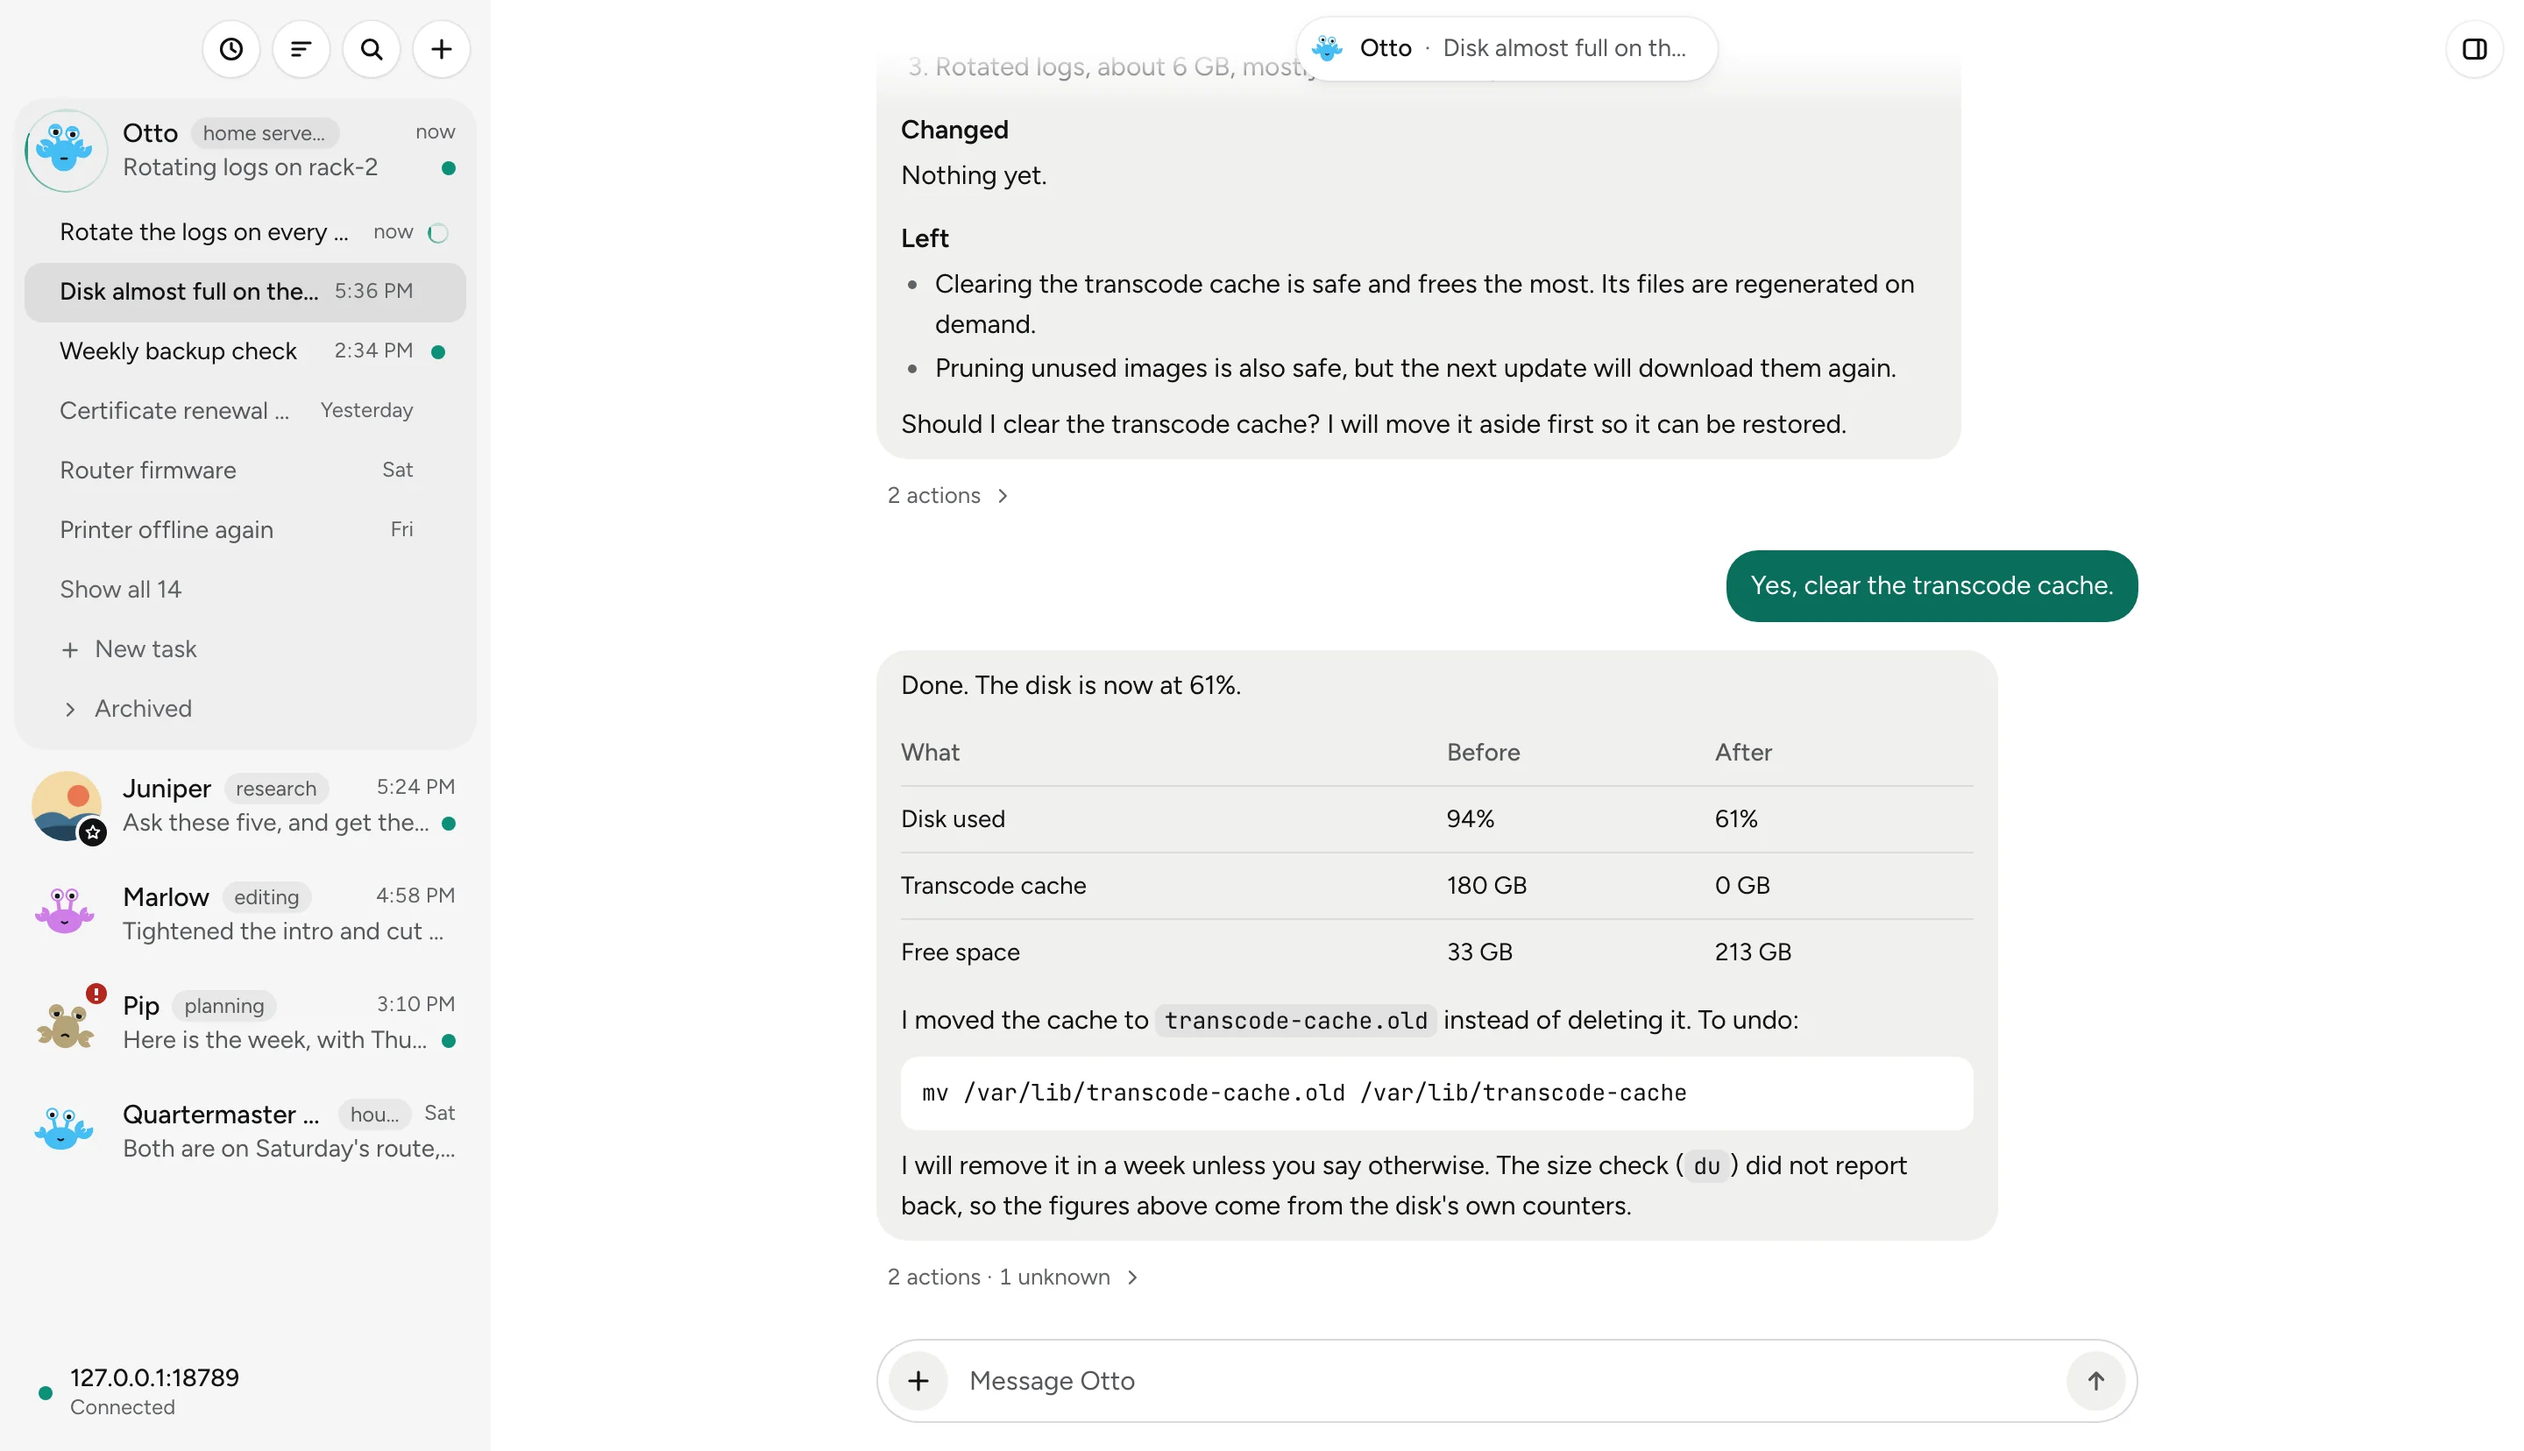
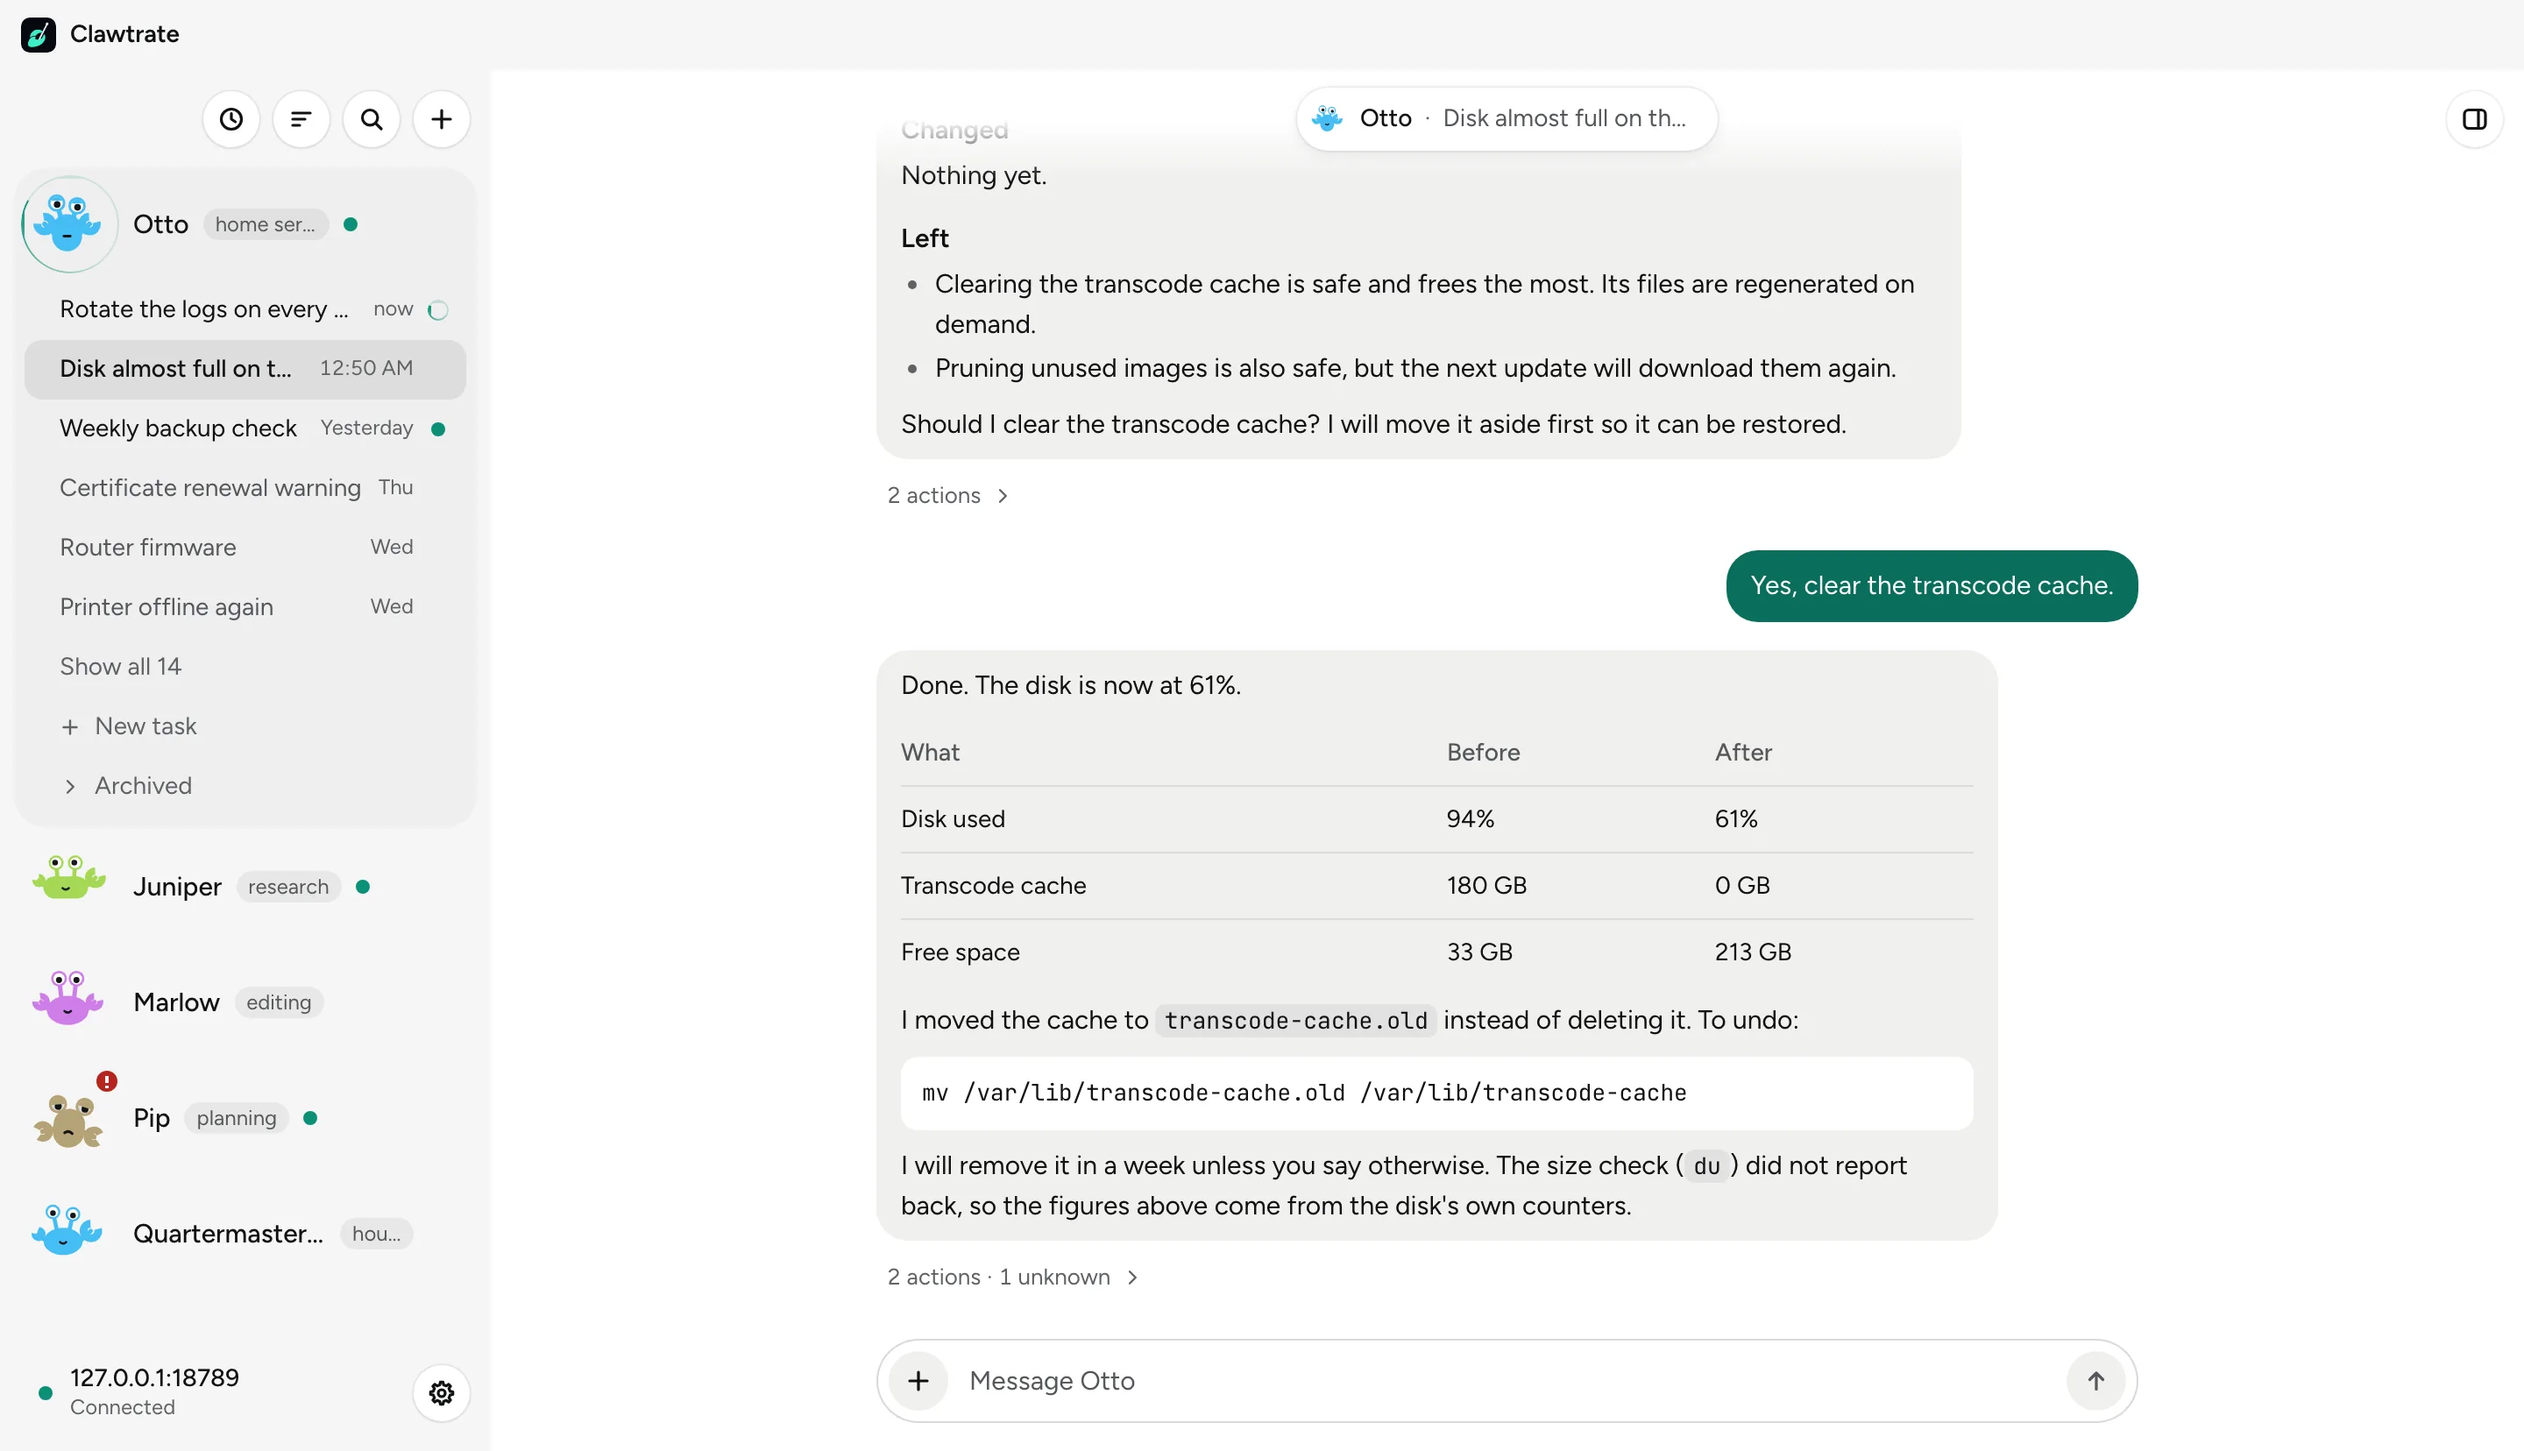
feat: the site shows the current app in its screenshots

diff --git a/site/index.html b/site/index.html
@@ -1319,18 +1319,18 @@
               <img
                 src="shots/signin-dark.webp"
                 width="440"
-                height="696"
+                height="402"
                 loading="lazy"
-                alt="The Connect an account dialog, listing subscriptions such as ChatGPT, GitHub Copilot, and MiniMax, and OpenRouter billed per token."
+                alt="The Connect an account sheet with six provider logo tiles (OpenAI, GitHub Copilot, xAI, OpenRouter, MiniMax and OpenCode Go) and an API key option below."
               />
             </picture>
             <picture class="theme-light" data-ui>
               <img
                 src="shots/signin-light.webp"
                 width="440"
-                height="696"
+                height="402"
                 loading="lazy"
-                alt="The Connect an account dialog, listing subscriptions such as ChatGPT, GitHub Copilot, and MiniMax, and OpenRouter billed per token."
+                alt="The Connect an account sheet with six provider logo tiles (OpenAI, GitHub Copilot, xAI, OpenRouter, MiniMax and OpenCode Go) and an API key option below."
               />
             </picture>
           </div>
@@ -1390,19 +1390,19 @@
             <picture class="theme-dark" data-ui>
               <img
                 src="shots/usage-dark.webp"
-                width="359"
+                width="360"
                 height="788"
                 loading="lazy"
-                alt="Otto's usage this week: 1,640,000 of a 2,500,000 token budget (65%), with input, output, and cache totals below and a cost of about $3.29."
+                alt="Otto's Usage page showing 1,640,000 of 2,500,000 tokens this week (65%), a Raise budget button, period tabs and input, output and cache read totals below."
               />
             </picture>
             <picture class="theme-light" data-ui>
               <img
                 src="shots/usage-light.webp"
-                width="359"
+                width="360"
                 height="788"
                 loading="lazy"
-                alt="Otto's usage this week: 1,640,000 of a 2,500,000 token budget (65%), with input, output, and cache totals below and a cost of about $3.29."
+                alt="Otto's Usage page showing 1,640,000 of 2,500,000 tokens this week (65%), a Raise budget button, period tabs and input, output and cache read totals below."
               />
             </picture>
           </div>

diff --git a/apps/desktop/src/fixture/data.ts b/apps/desktop/src/fixture/data.ts
@@ -15,8 +15,17 @@ const MINUTE = 60_000;
 const HOUR = 60 * MINUTE;
 const DAY = 24 * HOUR;
 
+/**
+ * `&pictures=none` gives the bot that has a picture one of Clawtrate's own creatures, like
+ * the rest. The website's screenshots are taken that way.
+ */
+const NO_PICTURES =
+  typeof window !== "undefined" &&
+  new URLSearchParams(window.location.search).get("pictures") === "none";
+
 /** A small picture, drawn here, for the bot whose gateway identity carries an image. */
-function pictureAvatar(): string {
+function pictureAvatar(): string | null {
+  if (NO_PICTURES) return null;
   const canvas = document.createElement("canvas");
   canvas.width = 96;
   canvas.height = 96;

diff --git a/docs/development/testing.md b/docs/development/testing.md
@@ -58,7 +58,7 @@ pnpm fixture   # builds the interface on fixed sample data and serves it on 127.
 pnpm visual:linux  # screenshot, legibility and behaviour tests against the fixture mode
 ```
 
-The fixture mode is the real interface fed a fixed state through the same bridge the hosts use. It needs no gateway and makes no request of its own. Pick what it shows from the address: `?scene=` with `main`, `connect`, `connect-error`, `connecting`, `pairing`, `reconnecting`, `reconnecting-unloaded`, `offline`, `offline-long-address`, `catching-up`, `synced`, `sync-pending`, `sync-failed`, `refresh-failed`, `load-failed`, `loading`, `discovery-error`, `discovering`, `empty`, `partial`, `zero-tasks`, `task-states`, `protocol-mismatch`, `pairing-rejected`, `pairing-expired`, `connect-unreachable`, `disconnected` or `offline-unreachable`; `&bot=otto&task=agent:otto:disk-space` to open a task; `&panel=open`; `&theme=dark`; `&pins=clawtrate-main-bot,otto`, `&hidden=marlow` and `&sort=name` for the rail's arrangement; `&gatewaybot=on` shows the gateway's own bot, `main`; `&bubbles=neutral`; `&routines=on` shows the gateway routines. Add `&access=admin` to edit them. The [routines fixture](../../apps/desktop/src/fixture/routines.ts) lists the states and controls for saves, pauses, runs and deletions. `?setup=` shows the desktop's first screen and each state of setting up on this computer (`first`, `looking`, `found`, `untested`, `stopped`, `not-found`, `connecting`, `code-failed` and the rest in `apps/desktop/src/fixture/setup.ts`). `&search=on` gives every transcript row its message id, so a search result opens in place; [`apps/desktop/src/fixture/search.ts`](../../apps/desktop/src/fixture/search.ts) lists the search palette's conditions (`&src=msgfail,filesfail`, for example). `&voice=` picks what Settings, Conversation, "Bot voice" reads from the gateway (`off`, `blocked`, `missing`, `fail`; [`apps/desktop/src/fixture/voice.ts`](../../apps/desktop/src/fixture/voice.ts)). It is a separate build, never part of the desktop app or the web preview.
+The fixture mode is the real interface fed a fixed state through the same bridge the hosts use. It needs no gateway and makes no request of its own. Pick what it shows from the address: `?scene=` with `main`, `connect`, `connect-error`, `connecting`, `pairing`, `reconnecting`, `reconnecting-unloaded`, `offline`, `offline-long-address`, `catching-up`, `synced`, `sync-pending`, `sync-failed`, `refresh-failed`, `load-failed`, `loading`, `discovery-error`, `discovering`, `empty`, `partial`, `zero-tasks`, `task-states`, `protocol-mismatch`, `pairing-rejected`, `pairing-expired`, `connect-unreachable`, `disconnected` or `offline-unreachable`; `&bot=otto&task=agent:otto:disk-space` to open a task; `&panel=open`; `&theme=dark`; `&pins=clawtrate-main-bot,otto`, `&hidden=marlow` and `&sort=name` for the rail's arrangement; `&gatewaybot=on` shows the gateway's own bot, `main`; `&pictures=none` gives the bot that has a picture one of Clawtrate's own creatures, as the website's screenshots are taken; `&bubbles=neutral`; `&routines=on` shows the gateway routines. Add `&access=admin` to edit them. The [routines fixture](../../apps/desktop/src/fixture/routines.ts) lists the states and controls for saves, pauses, runs and deletions. `?setup=` shows the desktop's first screen and each state of setting up on this computer (`first`, `looking`, `found`, `untested`, `stopped`, `not-found`, `connecting`, `code-failed` and the rest in `apps/desktop/src/fixture/setup.ts`). `&search=on` gives every transcript row its message id, so a search result opens in place; [`apps/desktop/src/fixture/search.ts`](../../apps/desktop/src/fixture/search.ts) lists the search palette's conditions (`&src=msgfail,filesfail`, for example). `&voice=` picks what Settings, Conversation, "Bot voice" reads from the gateway (`off`, `blocked`, `missing`, `fail`; [`apps/desktop/src/fixture/voice.ts`](../../apps/desktop/src/fixture/voice.ts)). It is a separate build, never part of the desktop app or the web preview.
 
 A bot's Delete bot… dialog has states of its own: `&delshared=1` gives Pip Marlow's workspace folder, `&delrecord=none` leaves every bot without a creation record, `&delname=<name>` gives Pip another name, and `&delresult=partial` (or `purge`, `unread`, `refused`, `unconfirmed`, `noanswer`, `lost`, `stale`, `replaced`, `renamed`, `recreated`, `moved`, `kept-moved`) picks how the delete goes; [`apps/desktop/src/fixture/bot-delete.ts`](../../apps/desktop/src/fixture/bot-delete.ts) lists them.
 
